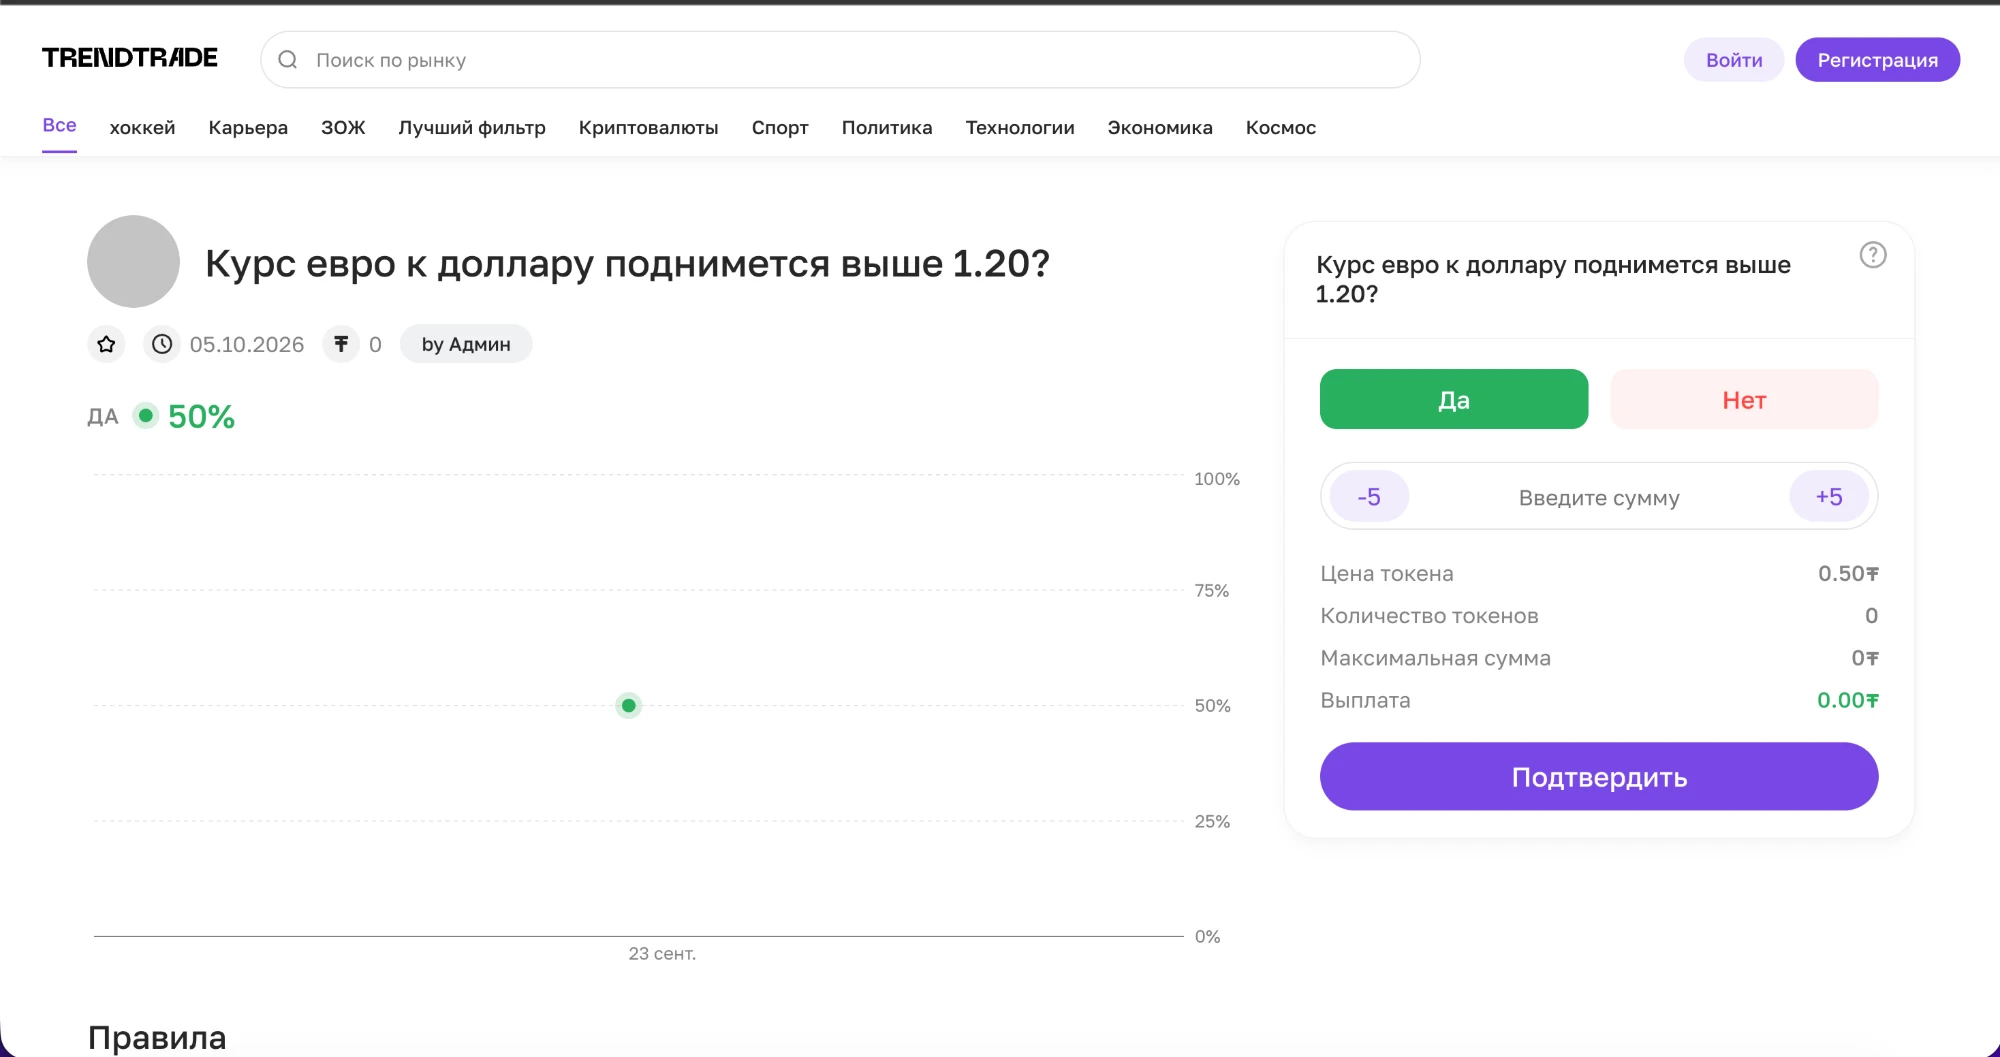
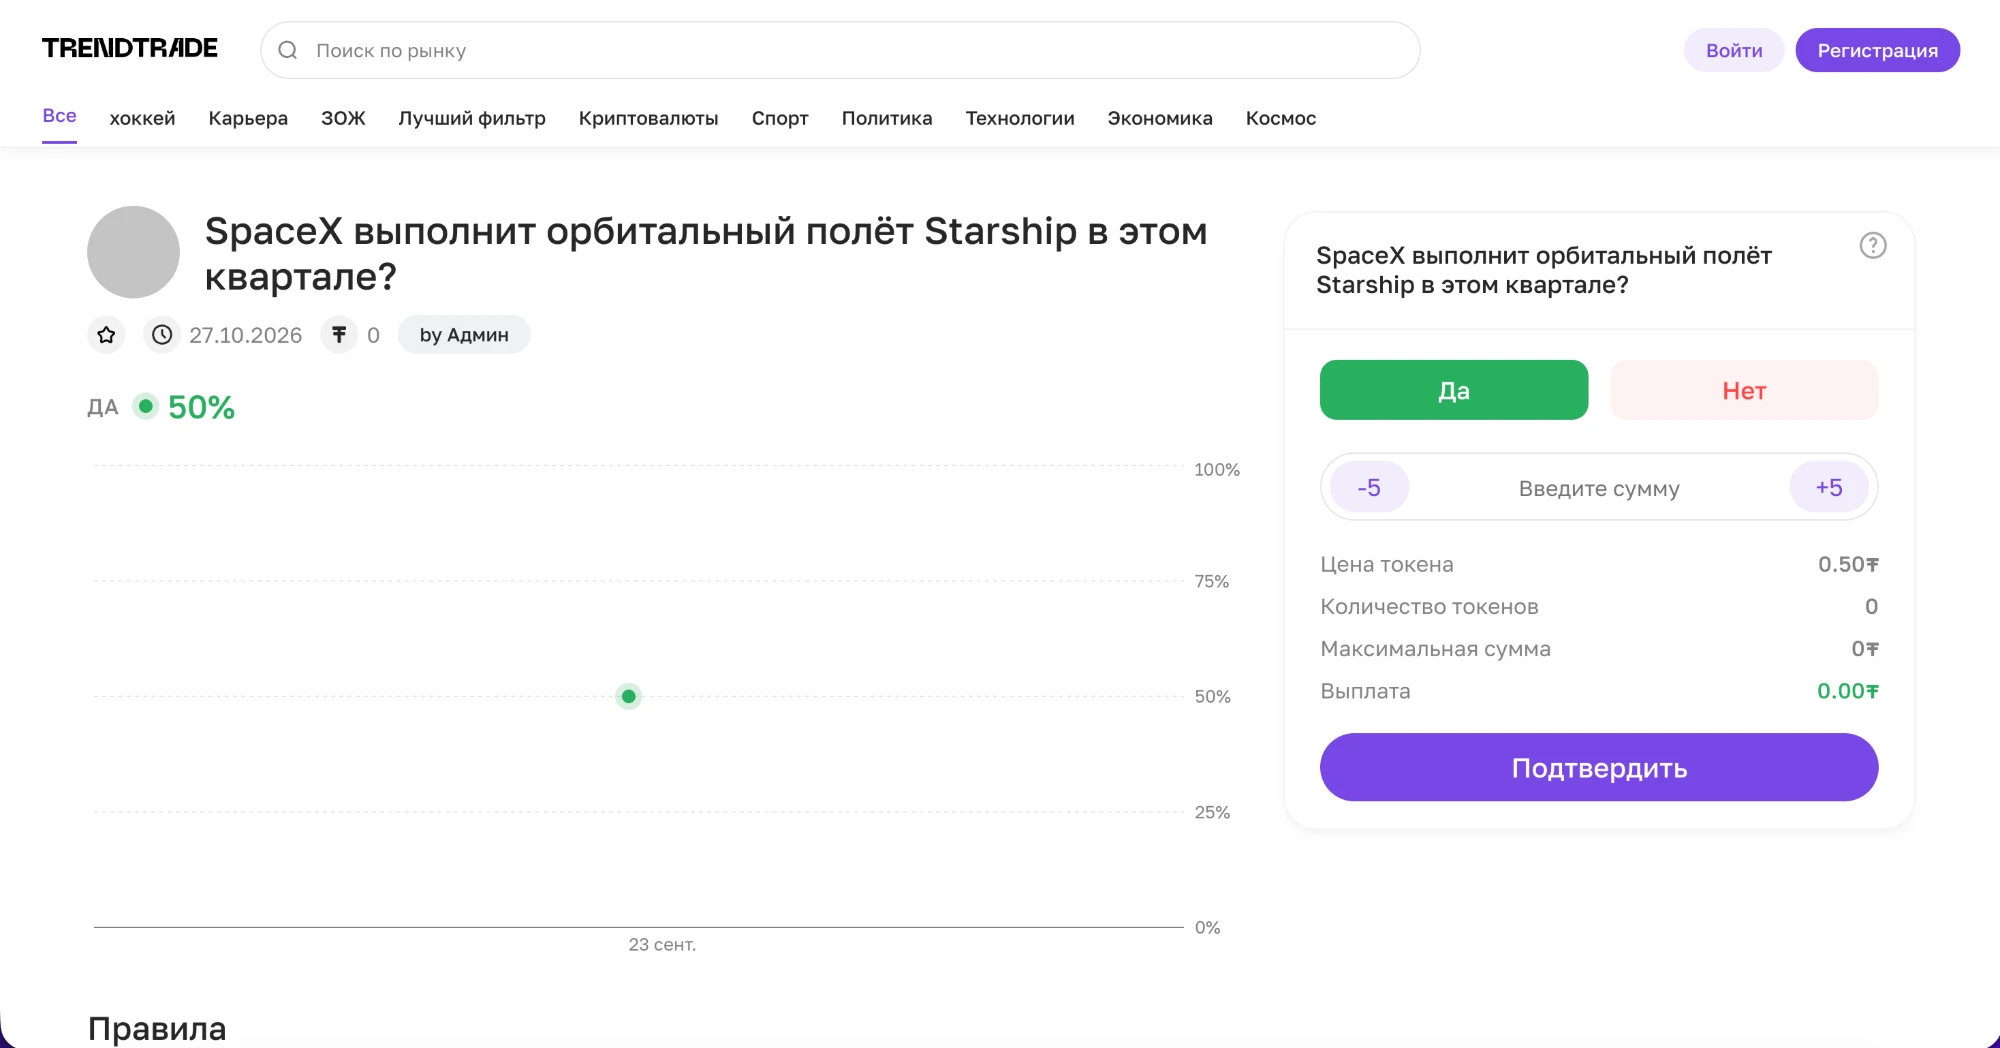
Список кейсов на квадратах с главной, новые снимки TrendTrade
Первые два снимка TrendTrade заменены на версии без чёрной полосы.

Страница кейсов переехала со старых плиток на карточки: сверху тот же
квадрат, что стоит в ряду на главной, под ним название и ссылка. У
проектов со снимками это кадр с интерфейсом, у остальных схема на
цветном поле, так что сетка читается единообразно. Снимок больше не
тонет под тёмной вуалью, а поле вокруг задаёт гамму проекта.

Размер участников в схеме медиахаба считается от ширины, а не от
высоты: в квадрате пять квадратов по 24% высоты в ширину уже не
помещались. Компонент CaseTile и поля image, imagePos и scrim удалены,
их больше некому использовать.

diff --git a/src/styles/site.css b/src/styles/site.css
@@ -572,6 +572,12 @@ html {
   justify-content: center;
 }
 
+/* В карточке списка кейсов заголовок стоит под квадратом, поэтому поля
+ * ровные со всех сторон. */
+.kz-art--square {
+  padding: 15% 13%;
+}
+
 .kz-art__inner {
   display: flex;
   flex-direction: column;
@@ -840,15 +846,18 @@ html {
 
 /* ---- медиахаб ---- */
 
+/* Размер участников считается от ширины, а не от высоты: в квадратном кадре
+ * списка кейсов пять квадратов по 24% высоты в ширину уже не помещались. */
 .kz-art__people {
   display: flex;
   gap: 6px;
-  height: 24%;
   flex: none;
 }
 
 .kz-art__people span {
-  height: 100%;
+  flex: 1 1 0;
+  min-width: 0;
+  max-width: 44px;
   aspect-ratio: 1;
   border: 1px solid var(--kz-art-line);
   background: var(--kz-art-fill);
@@ -1097,8 +1106,67 @@ html {
 .kz-cases-grid {
   display: grid;
   grid-template-columns: repeat(4, minmax(0, 1fr));
-  gap: 12px;
+  gap: 40px 24px;
   margin-top: 40px;
+}
+
+/* Карточка проекта: квадрат, под ним название и ссылка. */
+.kz-case-card {
+  display: flex;
+  flex-direction: column;
+  min-width: 0;
+}
+
+.kz-case-card,
+.kz-case-card:hover {
+  color: var(--text-body);
+}
+
+.kz-case-card__frame {
+  position: relative;
+  display: block;
+  aspect-ratio: 1;
+  overflow: hidden;
+  border: 1px solid var(--border-hairline);
+  transition: border-color var(--duration-base) var(--ease-standard);
+}
+
+.kz-case-card:hover .kz-case-card__frame {
+  border-color: var(--surface-accent);
+}
+
+/* Кадр занимает квадрат целиком и чуть подрастает под курсором. Поле кадра
+ * растёт вместе со снимком, поэтому по краям ничего не проглядывает. */
+.kz-case-card__frame > * {
+  width: 100%;
+  height: 100%;
+  transition: transform 700ms var(--ease-out);
+}
+
+.kz-case-card:hover .kz-case-card__frame > * {
+  transform: scale(1.04);
+}
+
+.kz-case-card__title {
+  margin-top: 18px;
+  font: var(--weight-semibold) 19px / 1.25 var(--font-core);
+  letter-spacing: -0.015em;
+  color: var(--text-strong);
+  text-wrap: balance;
+  transition: color var(--duration-base) var(--ease-standard);
+}
+
+.kz-case-card:hover .kz-case-card__title {
+  color: var(--text-accent);
+}
+
+.kz-case-card__link {
+  display: inline-flex;
+  align-items: center;
+  gap: 8px;
+  margin-top: 10px;
+  color: var(--text-muted);
+  font: var(--weight-medium) var(--size-body-sm) / 1 var(--font-core);
 }
 
 .kz-back {

diff --git a/src/components/CaseCard.jsx b/src/components/CaseCard.jsx
@@ -1,0 +1,52 @@
+// Карточка проекта в списке кейсов. Наверху тот же квадрат, что стоит в ряду
+// на главной: снимок в кадре, если он уже есть, и схема кейса на цветном поле,
+// пока снимков нет. Под квадратом название и ссылка.
+//
+// Раньше здесь был снимок во всю плитку с тёмной вуалью и заголовком поверх.
+// Кадр показывает проект честнее: интерфейс не тонет под вуалью, а поле
+// вокруг него задаёт гамму проекта.
+
+import { Icon } from '../design-system/index.js';
+import CaseArt from './CaseArt.jsx';
+import Shot from './Shot.jsx';
+
+const FILLS = {
+  grey: 'var(--ink-500)',
+  tint: 'var(--surface-tint)',
+  blue: 'var(--surface-accent)',
+  subtle: 'var(--surface-subtle)',
+};
+
+export default function CaseCard({ item, href, onClick, delay = 0, linkLabel = 'посмотреть кейс' }) {
+  // Первый экран проекта и есть его лицо: в ряду на главной он стоит первым.
+  const screen = (item.screens || []).find((s) => s.shot);
+  const dark = !screen && (item.fill === 'blue' || item.fill === 'grey');
+
+  return (
+    <a
+      className="kz-case-card"
+      href={href}
+      onClick={onClick}
+      data-reveal=""
+      style={{ '--kz-delay': `${delay}ms` }}
+    >
+      <span
+        className={`kz-case-card__frame${dark ? ' is-dark' : ''}`}
+        style={screen ? undefined : { background: FILLS[item.fill] || FILLS.tint }}
+      >
+        {screen ? (
+          <Shot preset={screen.preset} src={screen.shot} style={screen.frame} />
+        ) : (
+          <CaseArt slug={item.slug} variant="square" />
+        )}
+      </span>
+      {/* Пробел для тех, кто читает HTML без стилей: иначе последнее слово
+          заголовка склеивалось с «посмотреть». */}
+      <span className="kz-case-card__title">{item.title}</span>{' '}
+      <span className="kz-case-card__link">
+        {linkLabel}
+        <Icon name="arrow-right" size={14} />
+      </span>
+    </a>
+  );
+}

diff --git a/src/content/site.js b/src/content/site.js
@@ -154,11 +154,6 @@ export const CASES = {
       group: 'сайты',
       url: 'https://akpack.ru/',
       fill: 'tint',
-      // Плитка в списке кейсов: снимок главной на весь квадрат. Показана
-      // правая часть, слева на снимке крупный заголовок сайта, и под
-      // заголовком плитки он превращался в кашу.
-      image: '/assets/cases/akpack/home.webp',
-      imagePos: '82% center',
       // Кадр на странице кейса: главная в окне браузера на чёрном поле.
       media: {
         preset: 'browser',
@@ -181,12 +176,8 @@ export const CASES = {
       group: 'платформы',
       url: 'https://intrade.ed-services.site/',
       fill: 'blue',
-      // Плитка в списке кейсов и обложка страницы кейса. На обложке связка:
-      // окно с лентой событий и телефон с мини-приложением впереди.
-      image: '/assets/cases/trendtrade/market.webp',
-      // Интерфейс светлый, поэтому вуаль фиолетовая, а не чёрная: под чёрной
-      // белые карточки превращались в мутный серый.
-      scrim: 'linear-gradient(rgba(36, 20, 99, 0.88), rgba(120, 71, 229, 0.62) 46%, rgba(36, 20, 99, 0.9))',
+      // Обложка страницы кейса: окно с лентой событий и телефон
+      // с мини-приложением впереди.
       media: {
         preset: 'duo',
         src: '/assets/cases/trendtrade/market.webp',

diff --git a/src/pages/CasesPage.jsx b/src/pages/CasesPage.jsx
@@ -1,6 +1,6 @@
 import { useEffect, useState } from 'react';
 import { Tabs } from '../design-system/index.js';
-import CaseTile from '../components/CaseTile.jsx';
+import CaseCard from '../components/CaseCard.jsx';
 import SplitText from '../components/SplitText.jsx';
 import Footer from '../sections/Footer.jsx';
 import { CASES } from '../content/site.js';
@@ -46,15 +46,10 @@ export default function CasesPage() {
 
           <div className="kz-cases-grid">
             {shown.map((c, i) => (
-              <CaseTile
-                slug={c.slug}
+              <CaseCard
+                item={c}
                 delay={i * 60}
                 key={c.slug}
-                title={c.title}
-                image={c.image}
-                imagePos={c.imagePos}
-                scrim={c.scrim}
-                fill={c.fill}
                 href={`/cases/${c.slug}`}
                 onClick={(e) => {
                   e.preventDefault();

diff --git a/src/styles/motion.css b/src/styles/motion.css
@@ -712,10 +712,7 @@
   content: '';
   position: absolute;
   inset: 0;
-  background: var(
-    --kz-tile-scrim,
-    linear-gradient(rgba(23, 23, 23, 0.66), rgba(23, 23, 23, 0.26) 46%, rgba(23, 23, 23, 0.6))
-  );
+  background: var(--scrim-image);
 }
 
 .kz-tile__title {
